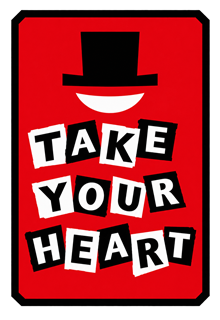
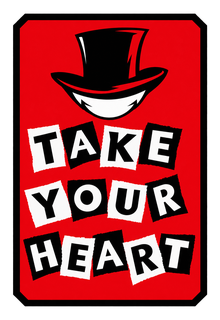
生成透明预告信 UI 并记录两张特效图提示词

diff --git a/art/p5/fx/gen_codex/README_codex.md b/art/p5/fx/gen_codex/README_codex.md
@@ -1,0 +1,8 @@
+# 本轮特效图生成记录
+
+- 两张均使用内置 image_gen，各生成一次；未自行审图、重画。
+- cutin_band.png：参考 gen/cutin_band.png 的构图、face_standard 的脸和 idle_a3 的头发；生成输出 1983×793，交付时缩放为 1600×420，RGB 不透明。
+- calling_card.png：参考 gen/calling_card.png，红黑预告信、礼帽笑脸和 TAKE YOUR HEART 拼贴字；交付 220×320，RGBA 保留生成透明度。
+- 完整提示词、参考输入和原始输出路径见两个 generation.json。
+- gen_codex 已有同名图，本次更新指定文件，旧版保留在 Git 历史；gen/ 参考文件未修改。
+- 未修改、提交、stash 或还原 art/cards 的其他会话改动；未打开结城理 mod 图片，未读取 obs.json 或密码。
